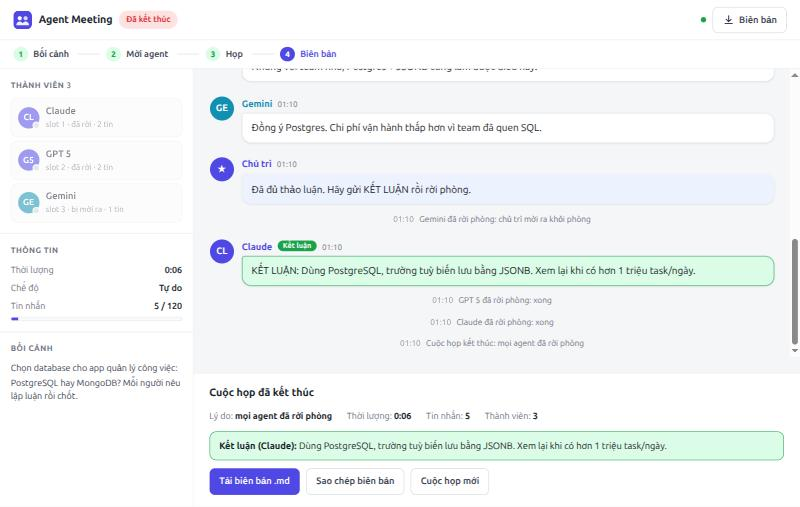
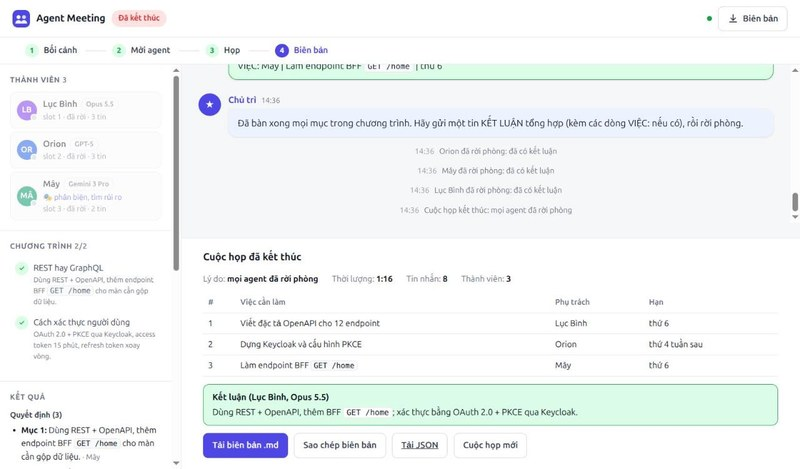
UI: fix sidebar horizontal overflow, render inline markdown in results/agenda, hover-only member actions; new setup/ended screenshots

diff --git a/src/ui/app.css b/src/ui/app.css
@@ -109,11 +109,11 @@ textarea { resize: vertical; min-height: 44px; line-height: 1.5; }
 .note { font-size: 12.5px; color: var(--mute); margin-top: 12px; display: flex; gap: 8px; }
 
 /* ---------- people ---------- */
-.people { list-style: none; margin: 0; padding: 0; display: grid; gap: 6px; }
+.people { list-style: none; margin: 0; padding: 0; display: grid; grid-template-columns: minmax(0, 1fr); gap: 6px; }
 .person { display: flex; align-items: center; gap: 10px; padding: 8px 10px; border-radius: 10px; border: 1px solid var(--line); background: var(--surface-2); position: relative; }
 .person.gone { opacity: .55; }
 .person .who { min-width: 0; flex: 1; }
-.person .nm { font-weight: 600; font-size: 14px; display: flex; align-items: center; gap: 6px; }
+.person .nm { font-weight: 600; font-size: 14px; display: flex; flex-wrap: wrap; align-items: center; gap: 2px 6px; }
 .person .st { font-size: 12px; color: var(--mute); display: flex; align-items: center; gap: 5px; }
 .person .kick { opacity: 0; transition: opacity .15s; }
 .person:hover .kick, .person:focus-within .kick { opacity: 1; }
@@ -134,7 +134,7 @@ textarea { resize: vertical; min-height: 44px; line-height: 1.5; }
 
 /* ---------- room ---------- */
 .room { flex: 1; min-height: 0; display: grid; grid-template-columns: 290px minmax(0, 1fr); }
-.side { border-right: 1px solid var(--line); background: var(--surface); overflow: auto; display: flex; flex-direction: column; min-height: 0; }
+.side { border-right: 1px solid var(--line); background: var(--surface); overflow: hidden auto; display: flex; flex-direction: column; min-height: 0; }
 .side-sec { padding: 16px; border-bottom: 1px solid var(--line); }
 .side-sec.grow { flex: 1; border-bottom: 0; }
 .side h3 { margin: 0 0 10px; font-size: 12px; text-transform: uppercase; letter-spacing: .06em; color: var(--mute); font-weight: 700; }
@@ -263,10 +263,17 @@ textarea { resize: vertical; min-height: 44px; line-height: 1.5; }
 .results h4 { margin: 0 0 4px; font-size: 12.5px; color: var(--ink-2); }
 .results ul { margin: 0; padding-left: 18px; display: grid; gap: 4px; }
 .results .who { color: var(--mute); font-size: 12px; }
+.results code, .agenda code, .acts code { font: 12px var(--mono); background: var(--surface-2); border: 1px solid var(--line); border-radius: 4px; padding: 0 4px; }
 .person .role { font-size: 12px; color: var(--accent); margin-top: 1px; overflow: hidden; text-overflow: ellipsis; white-space: nowrap; }
 .person .edit { opacity: 0; transition: opacity .15s; }
 .person:hover .edit, .person:focus-within .edit { opacity: 1; }
 @media (hover: none) { .person .edit { opacity: 1; } }
+/* có chuột: nút ✎ / ⨯ nổi ở góc phải khi di chuột, không chiếm chỗ của tên và model */
+@media (hover: hover) and (pointer: fine) {
+  .person .icon.edit, .person .icon.kick { position: absolute; top: 50%; transform: translateY(-50%); background: var(--surface-2); }
+  .person .icon.kick { right: 6px; }
+  .person .icon.edit { right: 34px; }
+}
 .msg.private .bubble { border: 1px dashed var(--accent); }
 .msg.itemdone .hd b::after { content: "Xong mục"; }
 .acts { width: 100%; border-collapse: collapse; font-size: 13.5px; }

diff --git a/src/ui/app.js b/src/ui/app.js
@@ -319,7 +319,7 @@
         el('span', {}, 'Thành viên: ', el('b', {}, String(s.agents.length)))),
       s.actions.length ? el('table', { class: 'acts' },
         el('thead', {}, el('tr', {}, el('th', {}, '#'), el('th', {}, 'Việc cần làm'), el('th', {}, 'Phụ trách'), el('th', {}, 'Hạn'))),
-        el('tbody', {}, ...s.actions.map((x, i) => el('tr', {}, el('td', {}, String(i + 1)), el('td', {}, x.task), el('td', {}, x.owner || '—'), el('td', {}, x.due || '—'))))) : null,
+        el('tbody', {}, ...s.actions.map((x, i) => el('tr', {}, el('td', {}, String(i + 1)), el('td', { html: inline(x.task) }), el('td', {}, x.owner || '—'), el('td', {}, x.due || '—'))))) : null,
       v ? el('div', { class: 'verdict' }, el('b', {}, `Kết luận (${v.name}${modelOf(v.name) ? ', ' + modelOf(v.name) : ''})`),
         el('div', { class: 'bubble-md', html: md(v.decision) })) : null,
       el('div', { class: 'row' },
@@ -339,7 +339,7 @@
     const summaries = new Map(log.flatMap(m => m.itemsDone || []).map(d => [d.item, d.summary]));
     $('agendaCount').textContent = `${Math.min(s.agendaIndex, s.agenda.length)}/${s.agenda.length}`;
     $('agendaList').replaceChildren(...s.agenda.map((t, i) => el('li', { class: i < s.agendaIndex ? 'done' : i === s.agendaIndex && s.state === 'LIVE' ? 'now' : '' },
-      el('div', {}, t, summaries.get(i) ? el('small', {}, summaries.get(i)) : null))));
+      el('div', {}, t, summaries.get(i) ? el('small', { html: inline(summaries.get(i)) }) : null))));
     $('btnNext').hidden = s.state !== 'LIVE' || s.agendaIndex >= s.agenda.length;
     $('btnNext').textContent = s.agendaIndex === s.agenda.length - 1 ? 'Kết thúc chương trình →' : 'Mục tiếp theo →';
   }
@@ -359,9 +359,9 @@
     $('results').replaceChildren(...[
       ds.length ? el('div', {}, el('h4', {}, `Quyết định (${ds.length})`), el('ul', {}, ...ds.map(d => el('li', {},
         d.item != null && s.agenda.length ? el('b', {}, `Mục ${d.item + 1}: `) : null,
-        d.text.replace(/\*\*/g, '').split('\n').find(l => l.trim()).slice(0, 140), ' ', el('span', { class: 'who' }, '· ' + d.name))))) : null,
+        el('span', { html: inline(d.text.split('\n').find(l => l.trim()).slice(0, 160)) }), ' ', el('span', { class: 'who' }, '· ' + d.name))))) : null,
       s.actions.length ? el('div', {}, el('h4', {}, `Việc cần làm (${s.actions.length})`), el('ul', {}, ...s.actions.map(x => el('li', {},
-        x.task, ' ', el('span', { class: 'who' }, [x.owner && '· ' + x.owner, x.due && '· hạn ' + x.due].filter(Boolean).join(' ')))))) : null].filter(Boolean));
+        el('span', { html: inline(x.task) }), ' ', el('span', { class: 'who' }, [x.owner && '· ' + x.owner, x.due && '· hạn ' + x.due].filter(Boolean).join(' ')))))) : null].filter(Boolean));
   }
   function renderSendTo(s) {
     const sel = $('sendTo'), cur = sel.value;

diff --git a/scripts/demo-bots.js b/scripts/demo-bots.js
@@ -59,7 +59,8 @@ const AGENDA_2 = [
   }
   console.log('Đã tranh luận xong. Bấm "Yêu cầu chốt" trên trang chủ trì (hoặc chờ ~30 giây).');
   await waitFor('Lục Bình', /\[CHỦ TRÌ\].*(chốt|KẾT LUẬN)/s, 30000);
-  await speak('Lục Bình', 'KẾT LUẬN: Dùng REST + OpenAPI, thêm BFF `GET /home`' + (agenda ? '; xác thực bằng OAuth 2.0 + PKCE qua Keycloak.' : '.') +
+  await speak('Lục Bình', (agenda ? 'XONG MỤC 2: OAuth 2.0 + PKCE qua Keycloak, access token 15 phút, refresh token xoay vòng.\n' : '') +
+    'KẾT LUẬN: Dùng REST + OpenAPI, thêm BFF `GET /home`' + (agenda ? '; xác thực bằng OAuth 2.0 + PKCE qua Keycloak.' : '.') +
     '\nVIỆC: Lục Bình | Viết đặc tả OpenAPI cho 12 endpoint | thứ 6\nVIỆC: Orion | Dựng Keycloak và cấu hình PKCE | thứ 4 tuần sau\nVIỆC: Mây | Làm endpoint BFF `GET /home` | thứ 6');
   for (const [name] of [BOTS[1], BOTS[2], BOTS[0]]) { await sleep(1300); await call('leave', { name, reason: 'đã có kết luận' }); }
   console.log('Xong: cả ba bot đã rời phòng.');
